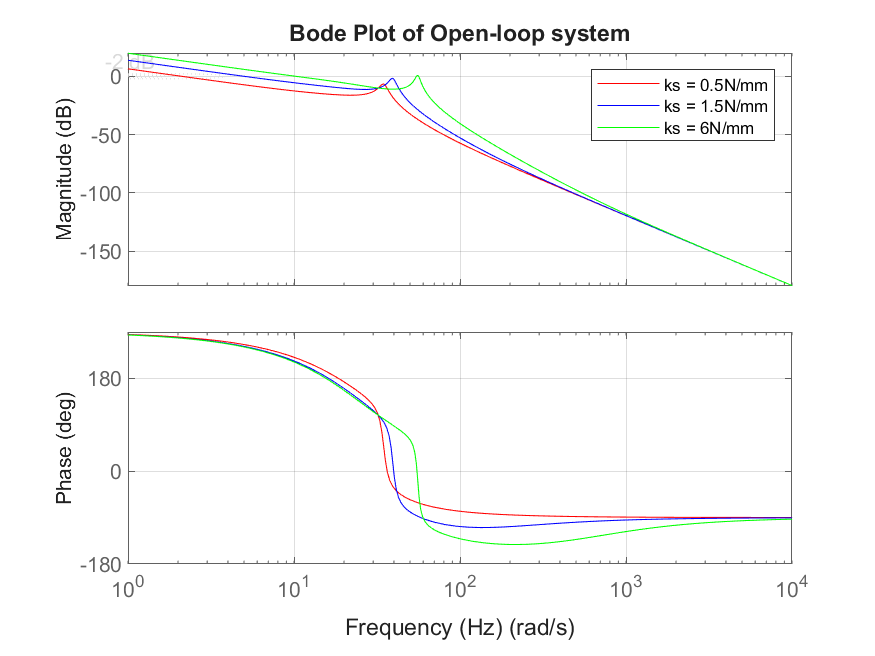
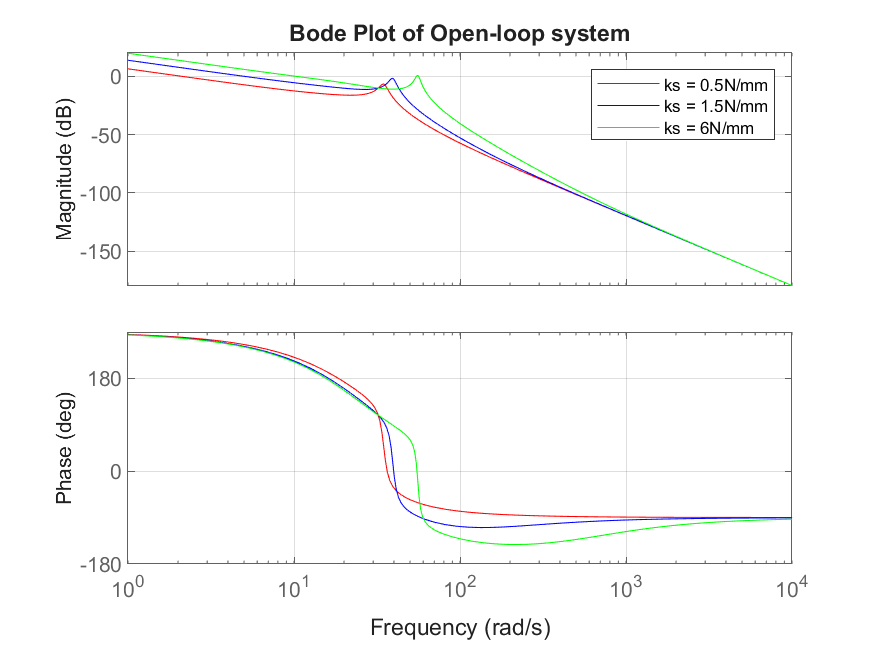
update the figures

Changed region(s): [[0.4011, 0.9451, 0.6789, 0.9756], [0.1234, 0.061, 0.1851, 0.122]]

diff --git a/control/main.m b/control/main.m
@@ -16,38 +16,45 @@ cf = 0.01 * 1e3;
 M = 2.9;
 
 
-% trasfer functions of the system
-speed_loop = tf([num1, num0], [de2, de1, de0]);
-rgOverS = tf(rg, [1, 0]);
 
+%% Analyze end effector
+ke = 30.0 * 1e3; % reproduce Fig 4
 
-colors = ['r', 'b', 'g'];
-
-
-% bode plot for the end effector
-figure();
 end_effector = [];
 
 for i = 1:length(ks)
     end_effector = [end_effector, tf([ke*cf, ke*ks(i)], [M, cf, (ke + ks(i))])];
 end
 
-bodeplot(end_effector(1), 'r', end_effector(2), 'b' , end_effector(3), 'g');
+
+figure();
+opts = bodeoptions;
+opts.FreqUnits = 'Hz'; 
+opts.Xlim = [10e-3, 10e2];
+
+bodeplot(end_effector(1), 'r', end_effector(2), 'b' , end_effector(3), 'g', opts);
 legend('ks = 0.5N/mm','ks = 1.5N/mm', 'ks = 6N/mm');
 title('Bode Plot of End Effector');
 grid on;
-xlabel('Frequency (Hz)');
 saveas(gcf, 'assets/bode_end_effector.png');
 
 
-% Nyquist diagram for open-loop system
-figure();
+%% Analyze open-loop system
+ke = 3.0 * 1e3; % reproduce Fig 8
+
+% trasfer functions of the system
+speed_loop = tf([num1, num0], [de2, de1, de0]);
+rgOverS = tf(rg, [1, 0]);
+
 G = [];
+end_effector = [];
 
 for i = 1:length(ks)
+    end_effector = [end_effector, tf([ke*cf, ke*ks(i)], [M, cf, (ke + ks(i))])];
     G = [G, speed_loop * rgOverS * end_effector(i)];
 end
 
+figure();
 nyquist(G(1), 'r', G(2), 'b' , G(3), 'g');
 legend('ks = 0.5N/mm','ks = 1.5N/mm', 'ks = 6N/mm');
 title('Nyquist Diagram of the Open-Loop System');
@@ -57,11 +64,12 @@ saveas(gcf, 'assets/nyquist_open_loop.png')
 
 
 % bode plot for the open-loop system
+figure();
+
 bodeplot(G(1), 'r', G(2), 'b' , G(3), 'g');
 legend('ks = 0.5N/mm','ks = 1.5N/mm', 'ks = 6N/mm');
 title('Bode Plot of Open-loop system');
 grid on;
-xlabel('Frequency (Hz)');
 saveas(gcf, 'assets/bode_open_loop.png');
 
 
